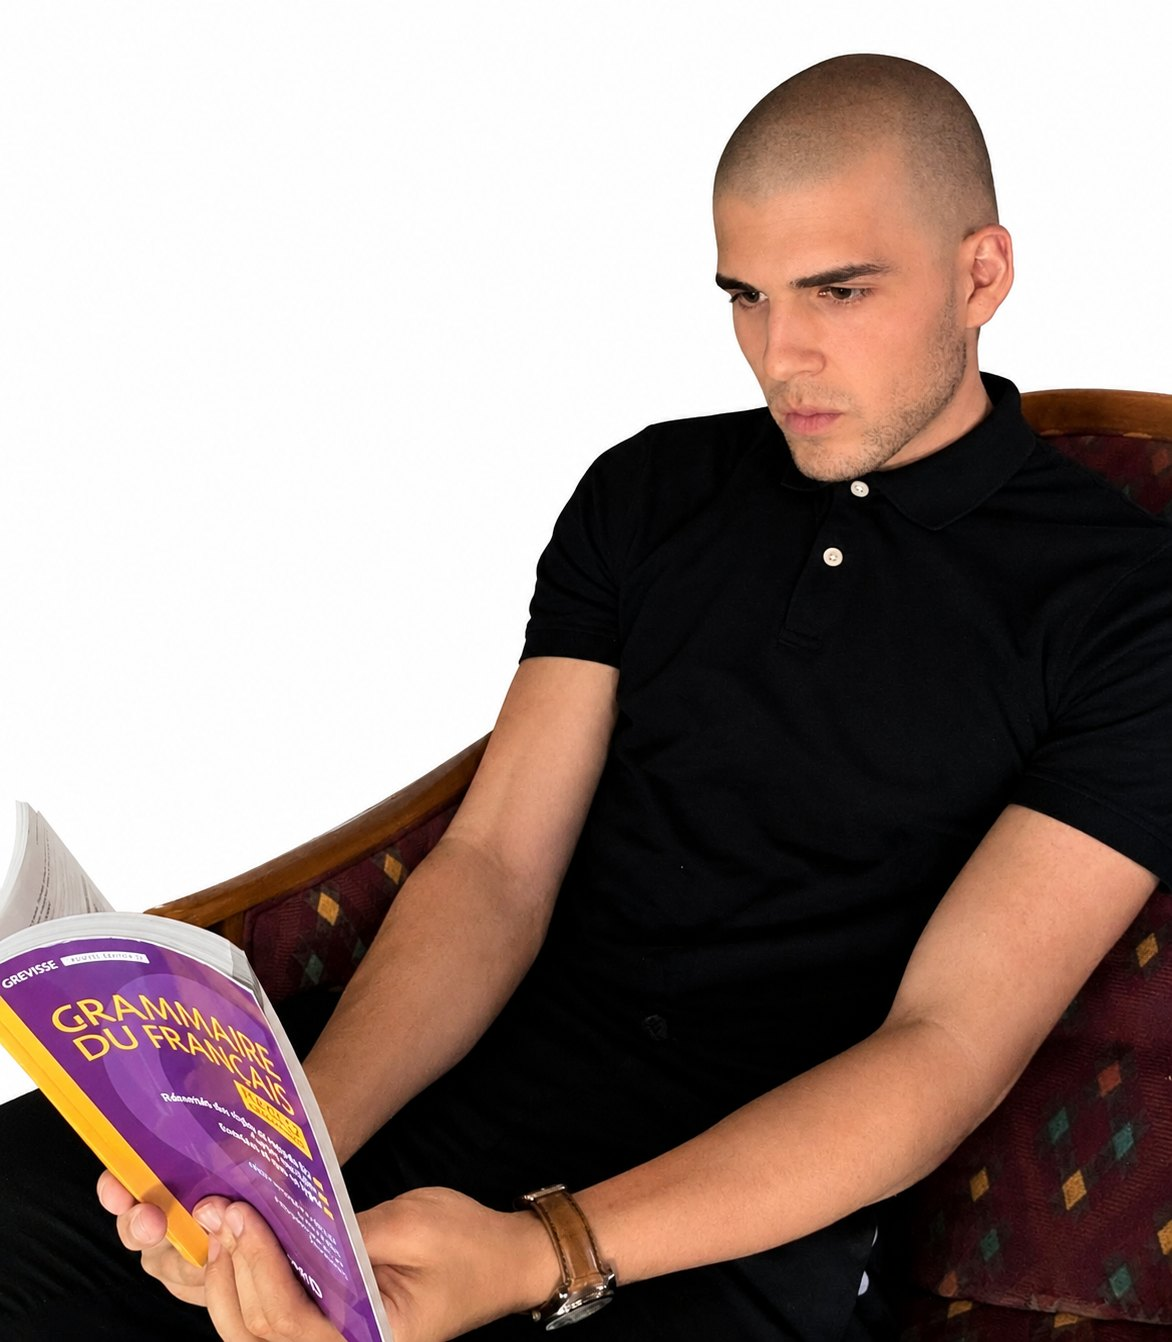
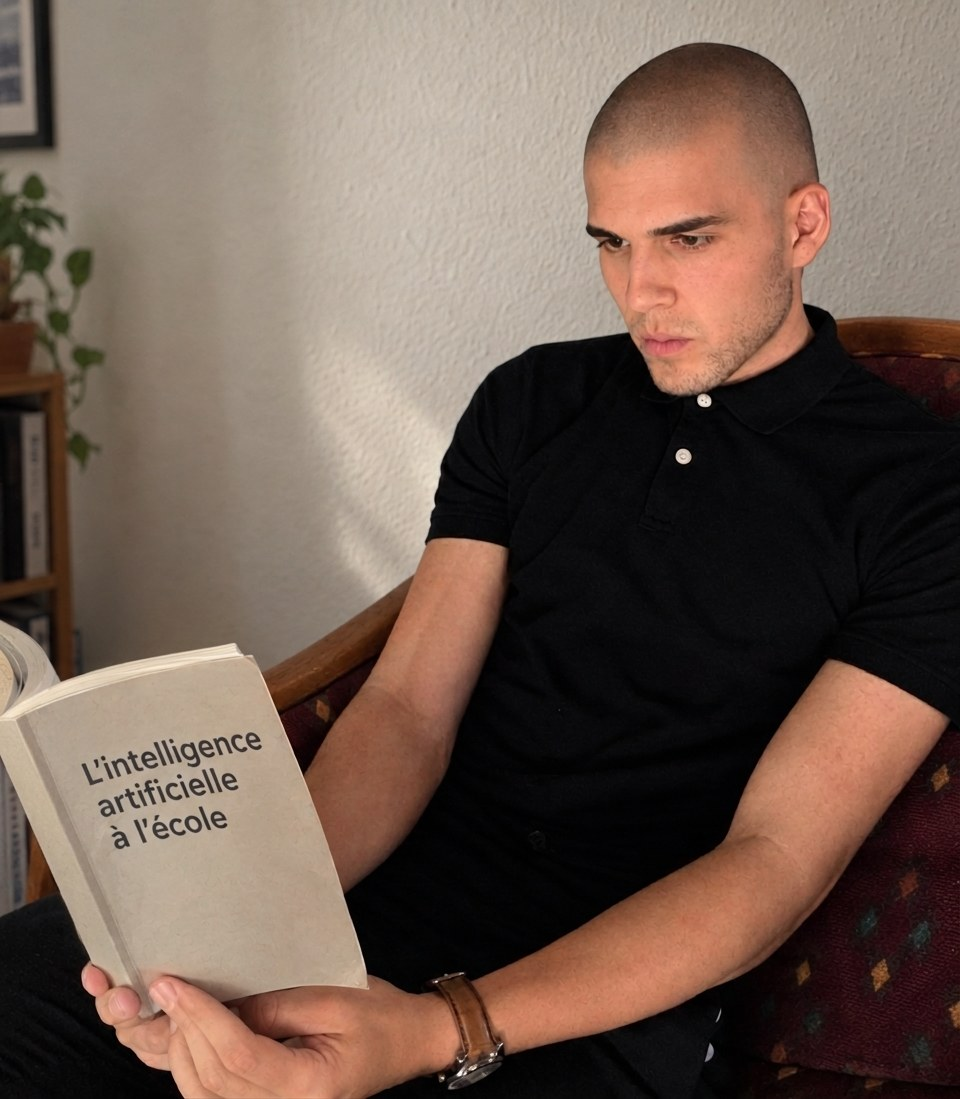
Replace the reading photo with the AI-edited version Pablo chose
Pablo supplied an AI-edited version of his reading photo (book retitled
"L'intelligence artificielle a l'ecole", recomposed background) and asked
for it to replace the original on the home pages as a placeholder until he
takes new photos. Same filename, dimensions now 960x1099; alt texts updated
in the three languages. Note: this conflicts with the CLAUDE.md rule
against AI-generated photorealistic images - merging this PR waives it for
this one image.

Claude-Session: https://claude.ai/code/session_01J5Rho2FU4VG2R6y1tu4bS4

diff --git a/es/index.html b/es/index.html
@@ -653,7 +653,7 @@
           <figcaption>Pablo Correa Prieto, en exterior</figcaption>
         </figure>
         <figure>
-          <img src="/pablo-correa-prieto-lecture.jpg" width="1172" height="1342" loading="lazy" decoding="async" alt="Pablo Correa Prieto leyendo una gramática del francés">
+          <img src="/pablo-correa-prieto-lecture.jpg" width="960" height="1099" loading="lazy" decoding="async" alt="Pablo Correa Prieto leyendo un libro sobre la inteligencia artificial en la escuela">
           <figcaption>Pablo Correa Prieto, leyendo</figcaption>
         </figure>
       </div>

diff --git a/index.html b/index.html
@@ -653,7 +653,7 @@
           <figcaption>Pablo Correa Prieto, en extérieur</figcaption>
         </figure>
         <figure>
-          <img src="/pablo-correa-prieto-lecture.jpg" width="1172" height="1342" loading="lazy" decoding="async" alt="Pablo Correa Prieto lisant une grammaire du français">
+          <img src="/pablo-correa-prieto-lecture.jpg" width="960" height="1099" loading="lazy" decoding="async" alt="Pablo Correa Prieto lisant un livre sur l’intelligence artificielle à l’école">
           <figcaption>Pablo Correa Prieto, lecture</figcaption>
         </figure>
       </div>

diff --git a/en/index.html b/en/index.html
@@ -653,7 +653,7 @@
           <figcaption>Pablo Correa Prieto, outdoors</figcaption>
         </figure>
         <figure>
-          <img src="/pablo-correa-prieto-lecture.jpg" width="1172" height="1342" loading="lazy" decoding="async" alt="Pablo Correa Prieto reading a French grammar book">
+          <img src="/pablo-correa-prieto-lecture.jpg" width="960" height="1099" loading="lazy" decoding="async" alt="Pablo Correa Prieto reading a book on artificial intelligence in schools">
           <figcaption>Pablo Correa Prieto, reading</figcaption>
         </figure>
       </div>
